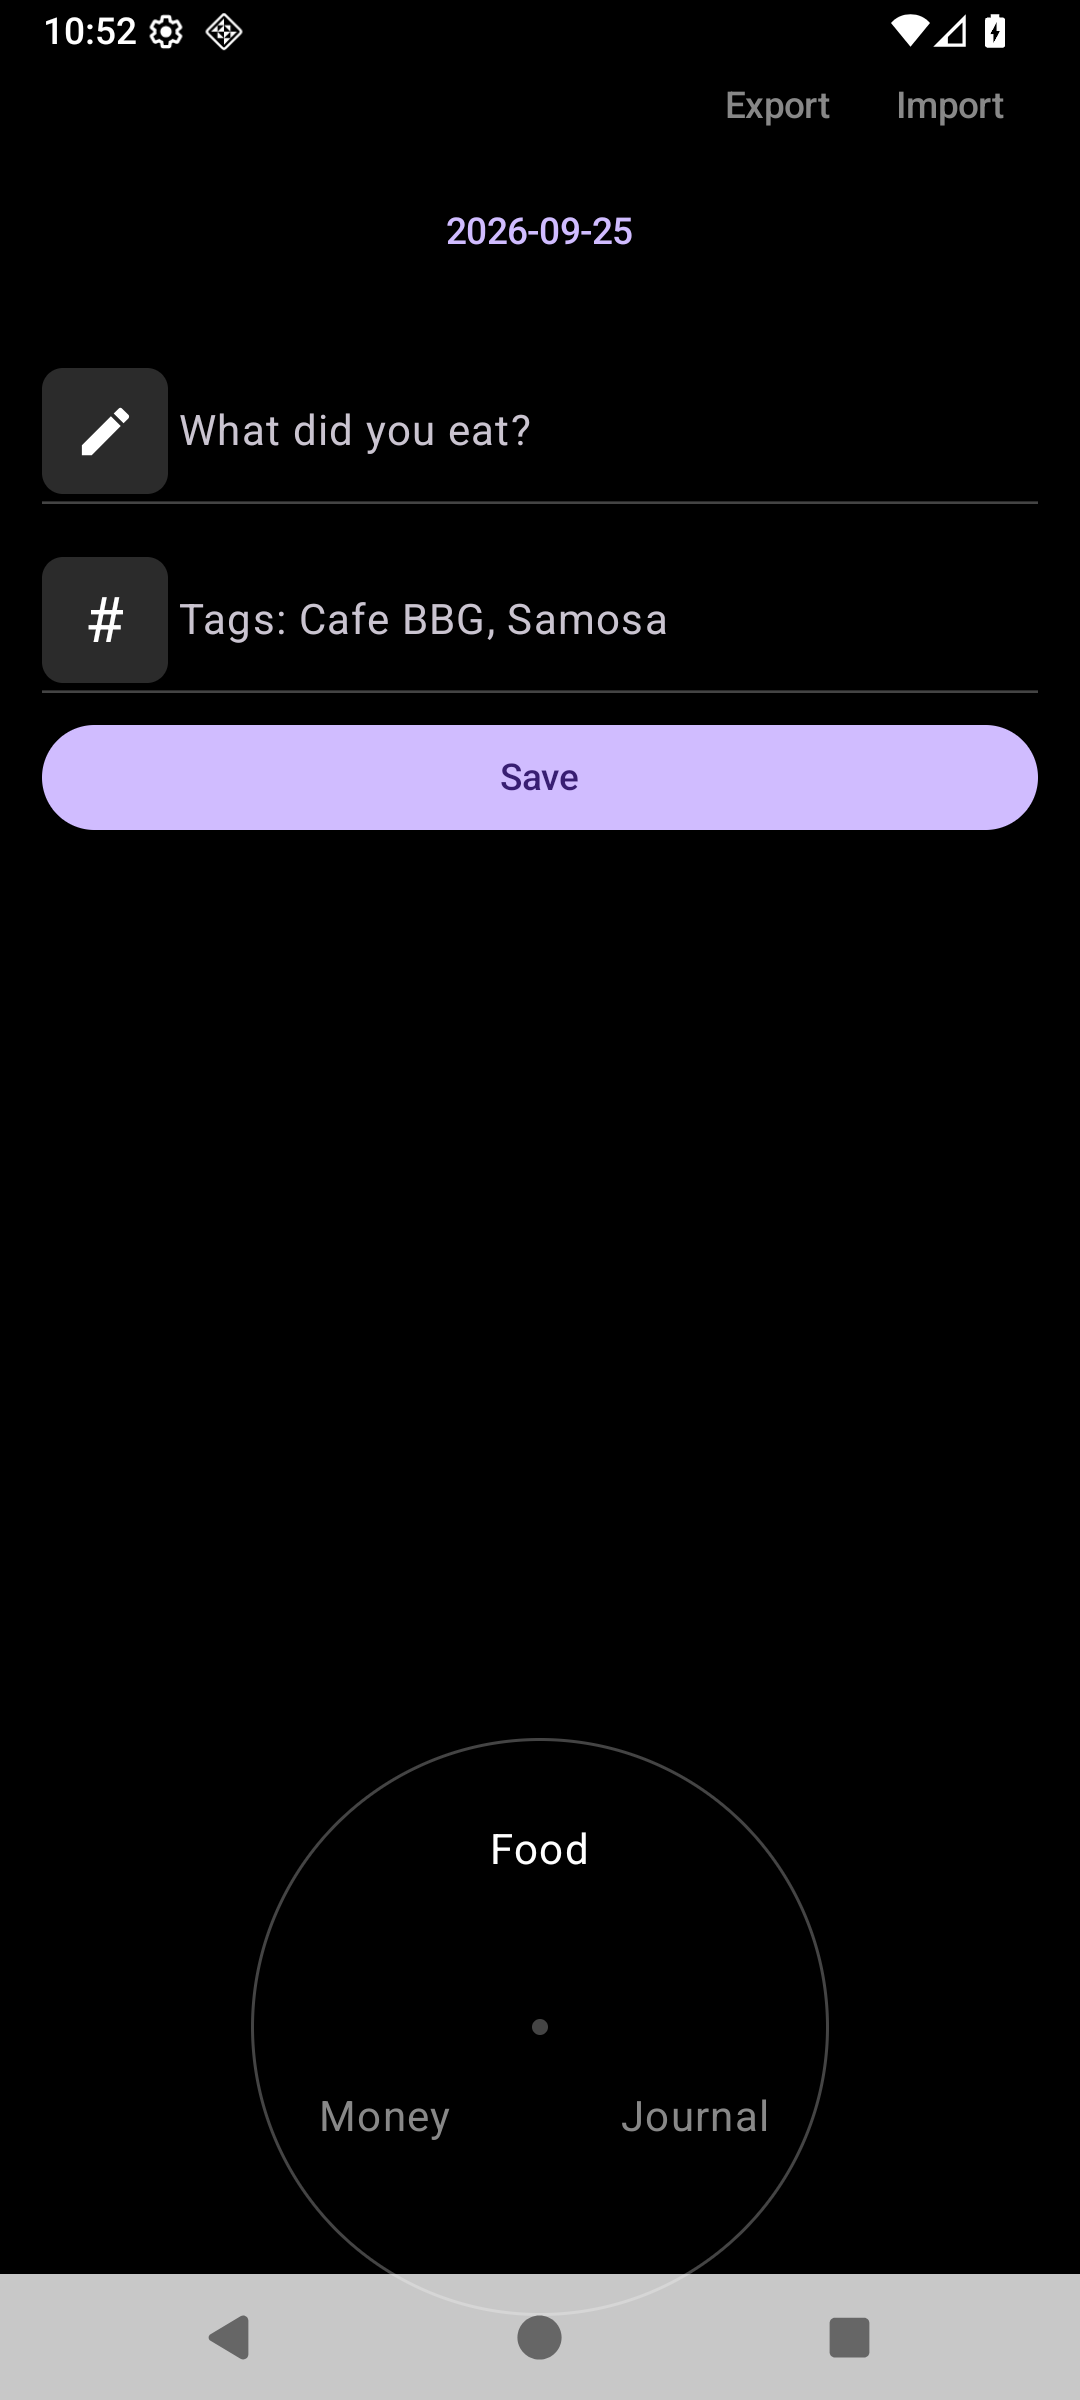
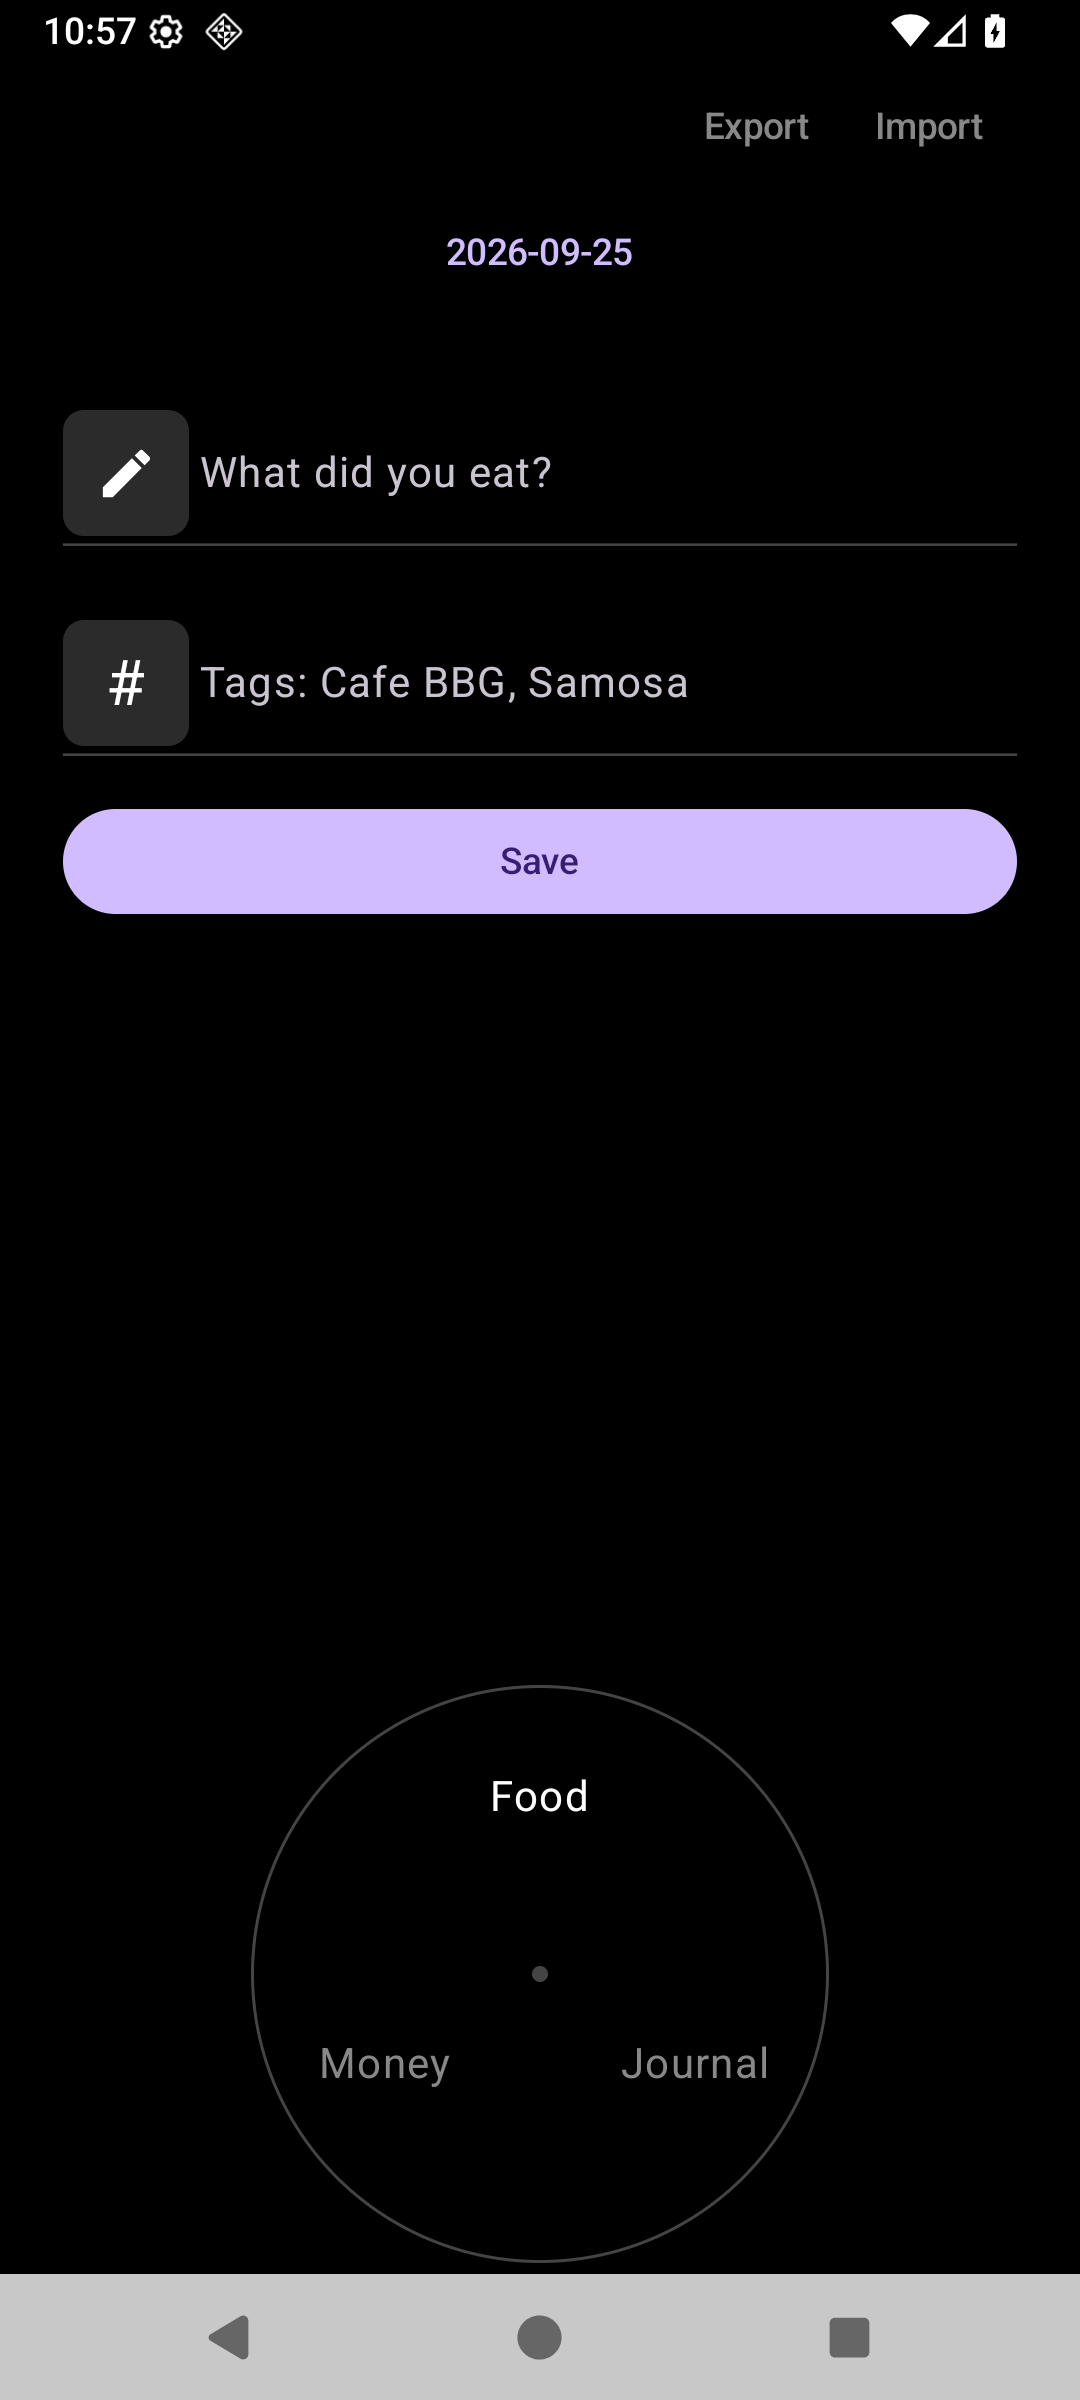
Roomier layout + spring microinteractions
- Spacing pass: 24dp margins, larger gaps throughout
- Dial snap settles with slight overshoot (damping 0.55)
- Tab switch morphs input via AnimatedContent (fade + scale)
- Save squashes on press, status pops with soft bounce
- Fresh screenshots

diff --git a/app/src/main/java/com/tout/app/MainActivity.kt b/app/src/main/java/com/tout/app/MainActivity.kt
@@ -14,11 +14,22 @@ import androidx.activity.ComponentActivity
 import androidx.activity.compose.rememberLauncherForActivityResult
 import androidx.activity.compose.setContent
 import androidx.activity.result.contract.ActivityResultContracts
+import androidx.compose.animation.AnimatedContent
+import androidx.compose.animation.AnimatedVisibility
+import androidx.compose.animation.core.Spring
+import androidx.compose.animation.core.spring
+import androidx.compose.animation.fadeIn
+import androidx.compose.animation.fadeOut
+import androidx.compose.animation.scaleIn
+import androidx.compose.animation.scaleOut
+import androidx.compose.animation.togetherWith
 import androidx.compose.animation.core.animateFloatAsState
 import androidx.compose.foundation.BorderStroke
 import androidx.compose.foundation.background
 import androidx.compose.foundation.clickable
 import androidx.compose.foundation.gestures.detectDragGestures
+import androidx.compose.foundation.interaction.MutableInteractionSource
+import androidx.compose.foundation.interaction.collectIsPressedAsState
 import androidx.compose.foundation.layout.Arrangement
 import androidx.compose.foundation.layout.offset
 import androidx.compose.foundation.layout.Box
@@ -61,6 +72,7 @@ import androidx.compose.ui.focus.FocusRequester
 import androidx.compose.ui.focus.focusRequester
 import androidx.compose.ui.geometry.Offset
 import androidx.compose.ui.graphics.Color
+import androidx.compose.ui.graphics.graphicsLayer
 import androidx.compose.ui.layout.LayoutCoordinates
 import androidx.compose.ui.layout.onGloballyPositioned
 import androidx.compose.ui.input.pointer.pointerInput
@@ -160,7 +172,7 @@ private fun App() {
 
     // ponytail: forced pure-black dark scheme, no toggle — system theme when asked
     MaterialTheme(colorScheme = darkColorScheme(background = Color.Black, surface = Color.Black)) {
-        Column(Modifier.fillMaxSize().background(Color.Black).padding(16.dp)) {
+        Column(Modifier.fillMaxSize().background(Color.Black).padding(24.dp)) {
             // top bar: export/import always visible — popup menus vanish on pure black
             Row(Modifier.fillMaxWidth(), Arrangement.End) {
                 TextButton(onClick = { exportLauncher.launch("tout-entries.jsonl") }) {
@@ -180,7 +192,7 @@ private fun App() {
                     ).show()
                 }) { Text(date.toString()) }
             }
-            Spacer(Modifier.height(24.dp))
+            Spacer(Modifier.height(32.dp))
             // ponytail: underline inputs like Splitwise — transparent box, indicator line + icon chip only
             val fieldColors = TextFieldDefaults.colors(
                 focusedContainerColor = Color.Transparent,
@@ -196,8 +208,18 @@ private fun App() {
                     contentAlignment = Alignment.Center
                 ) { glyph() }
             }
+            // microinteraction: tab switch morphs the input (springy scale + fade)
+            AnimatedContent(
+                targetState = tab,
+                transitionSpec = {
+                    (fadeIn(animationSpec = spring(stiffness = Spring.StiffnessMedium)) +
+                        scaleIn(initialScale = 0.96f, animationSpec = spring(stiffness = Spring.StiffnessMedium)))
+                        .togetherWith(fadeOut(animationSpec = spring(stiffness = Spring.StiffnessHigh)))
+                },
+                label = "tab",
+            ) { t ->
             // main input: big amount for Money, big text otherwise
-            if (tab == Tab.Money) {
+            if (t == Tab.Money) {
                 TextField(
                     value = amount,
                     onValueChange = { amount = it },
@@ -219,14 +241,15 @@ private fun App() {
                     value = text,
                     onValueChange = { text = it },
                     leadingIcon = { Chip { Icon(Icons.Filled.Edit, contentDescription = null, tint = Color.White) } },
-                    placeholder = { Text(if (tab == Tab.Food) "What did you eat?" else "What's on your mind?") },
+                    placeholder = { Text(if (t == Tab.Food) "What did you eat?" else "What's on your mind?") },
                     colors = fieldColors,
                     keyboardOptions = KeyboardOptions(imeAction = ImeAction.Done),
                     keyboardActions = KeyboardActions(onDone = { save() }),
                     modifier = Modifier.fillMaxWidth().focusRequester(entryFocus)
                 )
             }
-            Spacer(Modifier.height(16.dp))
+            }
+            Spacer(Modifier.height(24.dp))
             TextField(
                 value = tags,
                 onValueChange = { tags = it },
@@ -238,19 +261,45 @@ private fun App() {
                 keyboardActions = KeyboardActions(onDone = { save() }),
                 modifier = Modifier.fillMaxWidth()
             )
-            Spacer(Modifier.height(8.dp))
-            Button(onClick = { save() }, Modifier.fillMaxWidth()) { Text("Save") }
+            Spacer(Modifier.height(16.dp))
+            // microinteraction: Save squashes on press, springs back on release
+            val saveInteraction = remember { MutableInteractionSource() }
+            val savePressed by saveInteraction.collectIsPressedAsState()
+            val saveScale by animateFloatAsState(
+                if (savePressed) 0.97f else 1f,
+                animationSpec = spring(stiffness = Spring.StiffnessHigh),
+                label = "save",
+            )
+            Button(
+                onClick = { save() },
+                interactionSource = saveInteraction,
+                modifier = Modifier.fillMaxWidth().graphicsLayer {
+                    scaleX = saveScale
+                    scaleY = saveScale
+                }
+            ) { Text("Save") }
             // ponytail: fresh check each composition — appears right after PhonePe is installed, no restart needed
             if (tab == Tab.Money && PhonePe.installed(ctx)) {
-                Spacer(Modifier.height(8.dp))
+                Spacer(Modifier.height(12.dp))
                 OutlinedButton(
                     onClick = { if (!PhonePe.open(ctx)) status = "Couldn't open PhonePe" },
                     modifier = Modifier.fillMaxWidth()
                 ) { Text("Open PhonePe") }
             }
-            if (status.isNotEmpty()) {
+            // microinteraction: status pops in with a soft bounce, fades out
+            AnimatedVisibility(
+                visible = status.isNotEmpty(),
+                enter = scaleIn(
+                    animationSpec = spring(
+                        dampingRatio = Spring.DampingRatioMediumBouncy,
+                        stiffness = Spring.StiffnessMedium
+                    )
+                ) + fadeIn(),
+                exit = fadeOut() + scaleOut(targetScale = 0.9f),
+                modifier = Modifier.fillMaxWidth(),
+            ) {
                 Row(Modifier.fillMaxWidth(), Arrangement.Center) {
-                    Text(status, Modifier.padding(top = 8.dp))
+                    Text(status, Modifier.padding(top = 12.dp))
                 }
             }
             Spacer(Modifier.weight(1f))
@@ -264,7 +313,7 @@ private fun App() {
                     },
                 )
             }
-            Spacer(Modifier.height(16.dp))
+            Spacer(Modifier.height(28.dp))
         }
     }
 }
@@ -332,7 +381,12 @@ private fun Dial(onSelect: (Tab) -> Unit, onCenterTap: () -> Unit) {
     }
     val bases = remember { Tab.entries.map { baseAngle(it) } }
     var targetRot by remember { mutableFloatStateOf(0f) }
-    val rot by animateFloatAsState(targetRot, label = "dial")
+    // microinteraction: snap settles with a whisper of overshoot, not a dead stop
+    val rot by animateFloatAsState(
+        targetRot,
+        animationSpec = spring(dampingRatio = 0.55f, stiffness = Spring.StiffnessMediumLow),
+        label = "dial",
+    )
     val hapticCtx = LocalContext.current
     var tickIndex by remember { mutableIntStateOf(0) } // rot=0 → Money on top
 
